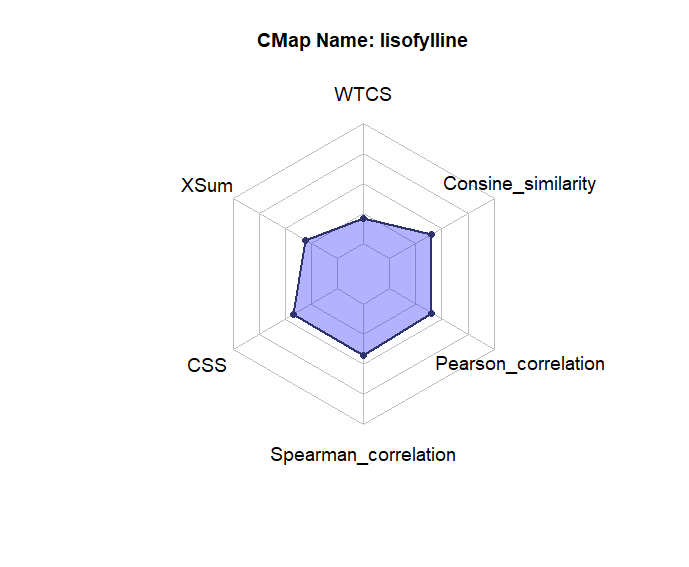
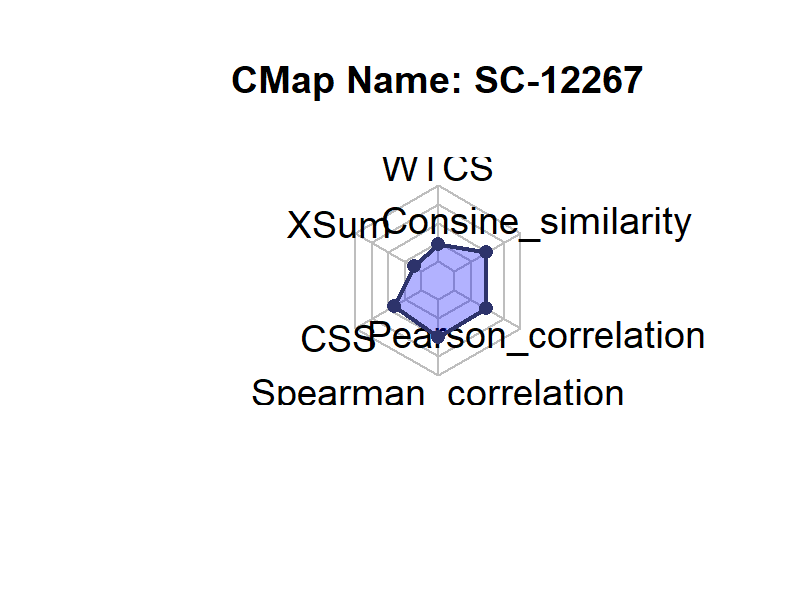
update README

diff --git a/README.md b/README.md
@@ -95,11 +95,11 @@ head(res)
 #........
 ```
 
-Visualization of CAD-lisofylline pair:
+Visualization of bipolar disorder-SC-12267 pair:
 
 ``` r
-#filter the CAD-lisofylline pair:
-data = res[res$cmap_name=="lisofylline",]
+#filter the bipolar disorder-SC-12267 pair:
+data = res[res$cmap_name=="SC-12267",]
 ```
 
 Radar plot:  
